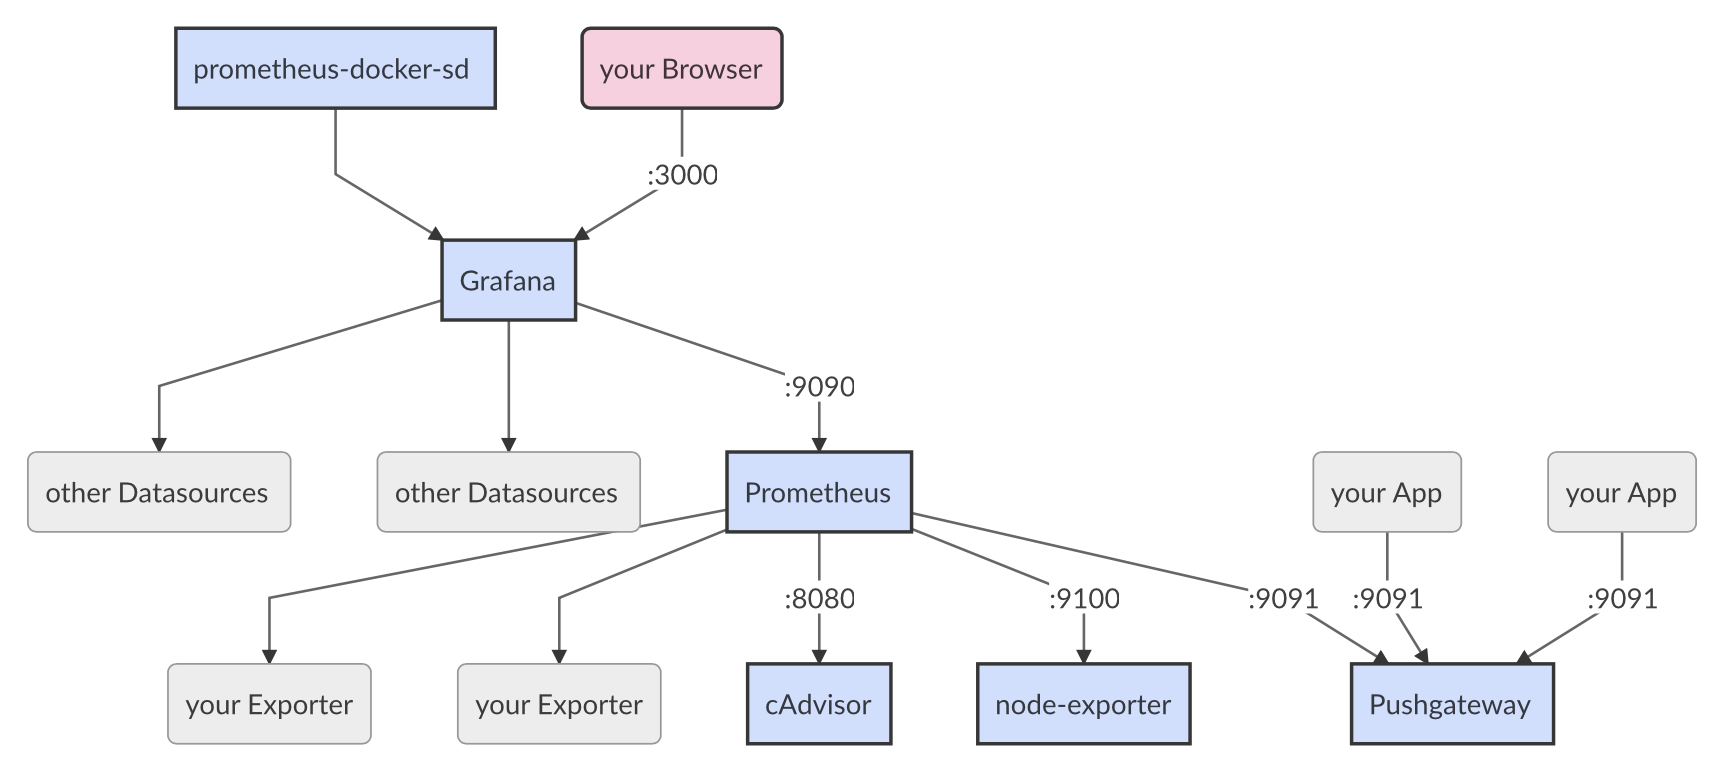
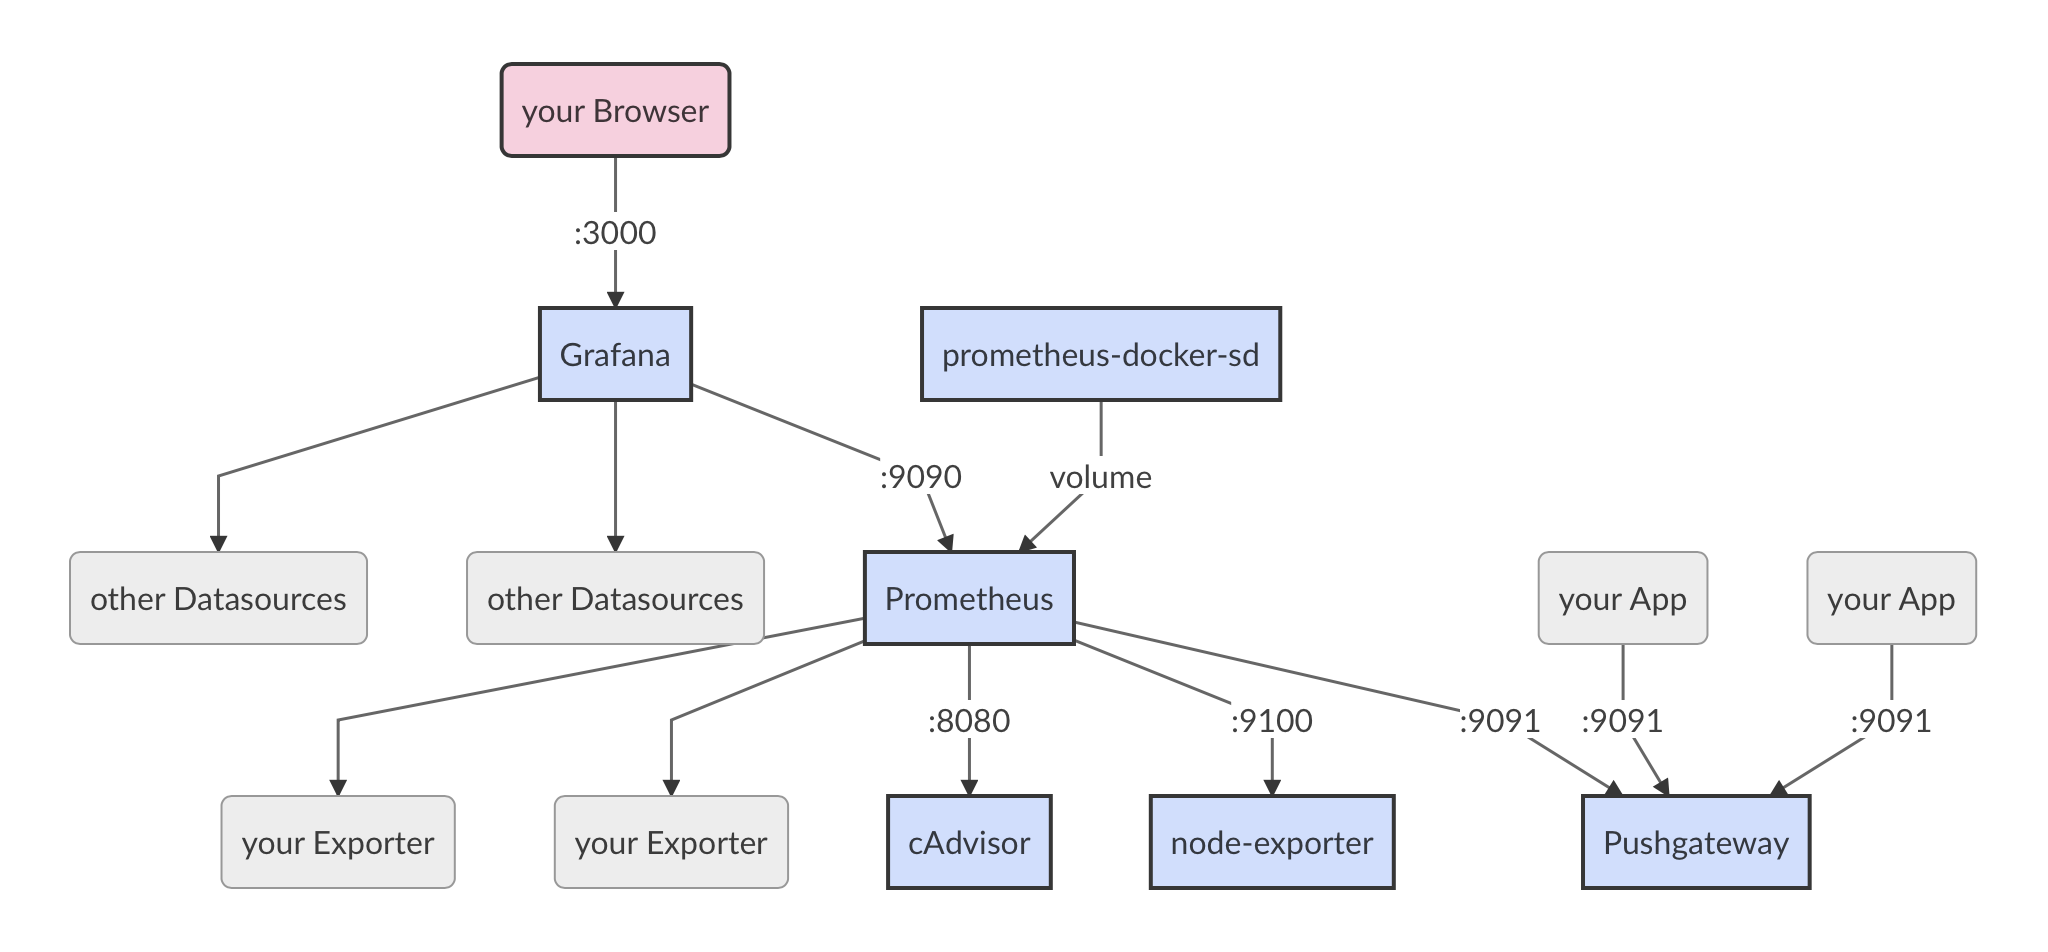
modify pushgateway in README

diff --git a/README.md b/README.md
@@ -8,20 +8,20 @@
 * [pushgateway](https://github.com/prometheus/pushgateway) - for things witch can't provide metrics themselves
 * [prometheus-docker-sd](https://github.com/stuckyhm/prometheus-docker-sd) - automated service discovery for prometheus
 
-
-
 ![Diagram](/docs/diagram.png)
 ## How to use it? 
 ```
 git clone git@github.com:stuckyhm/prometheus-grafana-stack.git
 docker-compose up
 ```
+
+### Metrics via Service Discovery
 Add the following labels to your containers.
 | label                            | mandatory | default          | description                                         |
 | -------------------------------- | :-------: | ---------------- | --------------------------------------------------- |
 | prometheus-scrape.enabled        |       yes |                  | Must set to "true" for enabled.                     |
 | prometheus-scrape.job_name       |        no | <Container-Name> | Content for the prometheus label "job".             |
-| prometheus-scrape.hostname       |        no | <Container-Name> | Hostname, if it differs from the container name.    |
+| prometheus-scrape.hostname       |        no | <Container-Name> | Hostname, if it differs from the container name or for access via the public interface.    |
 | prometheus-scrape.ip_as_hostname |        no |            false | Use the container ip instead of the container name. |
 | prometheus-scrape.port           |        no |             9090 | Port of the metrics endpoint.                       |
 | prometheus-scrape.scheme         |        no |             http | Scheme http or https                                |
@@ -36,7 +36,12 @@ Push a simple metric:
 ```
 echo "some_metric 3.14" | curl --data-binary @- http://127.0.0.1:9091/metrics/job/some_job
 ```
-More Sample at https://github.com/prometheus/pushgateway
+
+![Diagram](/docs/pushgateway.png)
+
+More Samples at https://github.com/prometheus/pushgateway
+
+**Important: The Container has to be in the same network that prometheus. At the moment, the stack is connected to default network docker0 (bridge).**
 
 ## Access the metrics
 ### Grafana

diff --git a/docs/diagram.md b/docs/diagram.md
@@ -1,7 +1,7 @@
 ```mermaid
 graph TD
 Z(your Browser) -- :3000 --> A(Prometheus)
-K[prometheus-docker-sd] --> A
+K[prometheus-docker-sd] --> B
 A[Grafana] -- :9090 --> B[Prometheus]
 A --> C(other Datasources)
 A --> L(other Datasources)
